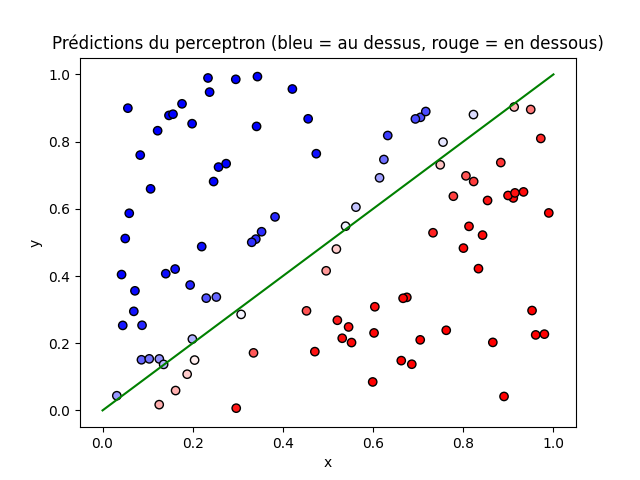
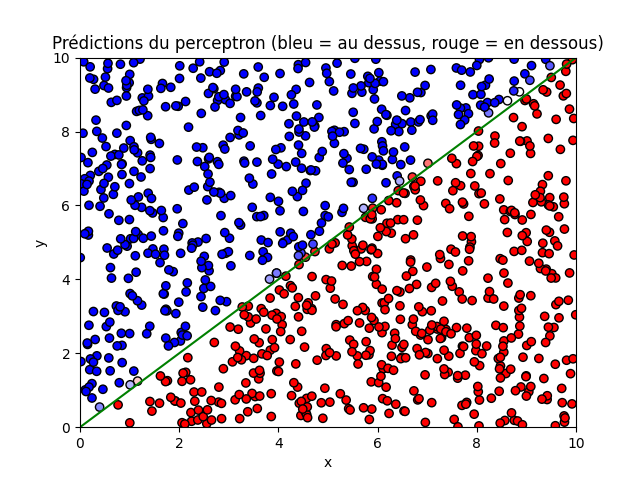
add results

diff --git a/introduction/perceptron.py b/introduction/perceptron.py
@@ -6,7 +6,7 @@ import matplotlib.animation as animation
 
 #constante de numérisation :
 Nt = 100 #nombre de prediction
-Nx = 100 #nombre d'entrée
+Nx = 1000 #nombre d'entrée
 
 #constante du problème :
 xmin, xmax = 0, 10
@@ -14,7 +14,7 @@ ymin, ymax = 0, 10
 
 #pour l'aniamtion :
 animation_interval = 5  #Intervalle pour l'animation (tout les combiens de step on sauvegarde les données)
-save_animation = False #si on sauvegarde l'animation sur la machine
+save_animation = True #si on sauvegarde l'animation sur la machine
 save_frames = True  #si on fait une annimation
 
 ############################### fonctions ###############################
@@ -84,12 +84,12 @@ class Perceptron :
                 # ajustements des parametres
                 self.weights = self.weights + self.lr * error * inputs[i] # Mise à jour des poids
                 self.bias = self.bias + self.lr * error # Mise à jour du biais
-            if t % animation_interval == 0:
+            if t % animation_interval == 0 :
                 # Prédiction sur la grille complète pour l'animation
                 preds_grid = np.array([self.predict(pt) for pt in grid_inputs])
                 preds_grid_2D = preds_grid.reshape(Nx, Nx)
                 prediction_for_animation.append(preds_grid_2D)
-                print(f"Image {t/animation_interval + 1}/{Nt/animation_interval}")
+                print(f"Image {t//animation_interval + 1}/{Nt//animation_interval}")
         return prediction_for_animation #pas de vrai return car on souhaite juste ajuster bias et weights pour améliorer nos futurs predictions
 
 ############################### Main ###############################
